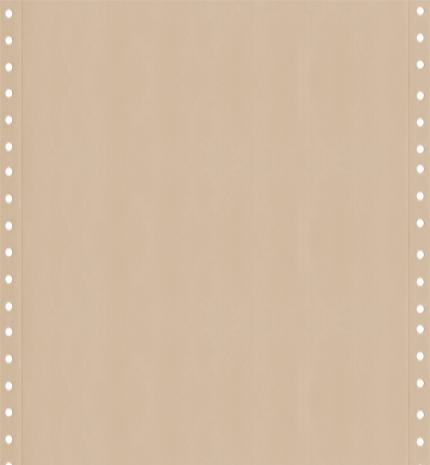
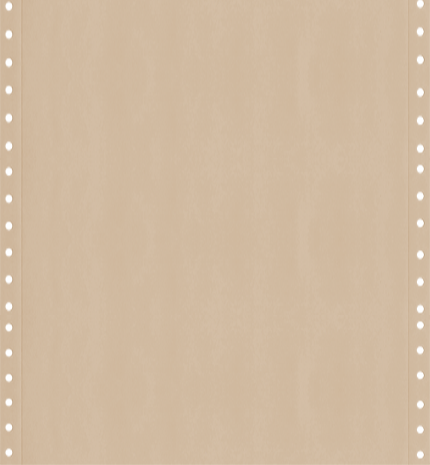
styling for show page before JS work

diff --git a/app/assets/stylesheets/pages/_sandwiches.scss b/app/assets/stylesheets/pages/_sandwiches.scss
@@ -4,19 +4,35 @@
   }
 
   .card {
-    margin: 10px 15px;
-    border-radius: 12px;
-    padding: 20px;
+    background: transparent;
+  }
+
+  .sandwich-card:nth-of-type(-n+2) {
+    background: asset_url("bg_paper.png");
+    background-size: 100% 380px;
+  }
+
+  .sandwich-card.tasting-notes-card {
+    .inner-box-tasting-notes {
+      border: 2px solid black;
+      border-radius: 10px;
+      padding: 10px 0px;
+      width: 380px;
+      max-width: 100%;
+      margin: 0 auto;
+    }
   }
 
   .sandwich-image {
-    width: 100%;
-    height: auto;
+    width: 90%;
+    height: 300px;
     border-top-left-radius: 15px;
     border-top-right-radius: 15px;
     border-bottom-left-radius: 0;
     border-bottom-right-radius: 0;
     object-fit: cover;
+    align-items: center;
+    margin-left: 20px;
   }
 
   .sandwich-title {
@@ -24,6 +40,7 @@
     font-weight: bold;
     margin-top: 10px;
     text-align: left;
+    margin-left: 10px;
   }
 
   .category-container {
@@ -73,6 +90,7 @@
     font-size: 1rem;
     line-height: 1.5;
     margin-top: 10px;
+    margin-left: 10px;
   }
 
   .notes-header {
@@ -358,6 +376,7 @@
   background-color: transparent;
   border-top: 3px solid #86613d;
   border-radius: 0px;
+  margin: 10px 15px;
 
   h2 {
     font-size: 1.5rem;
